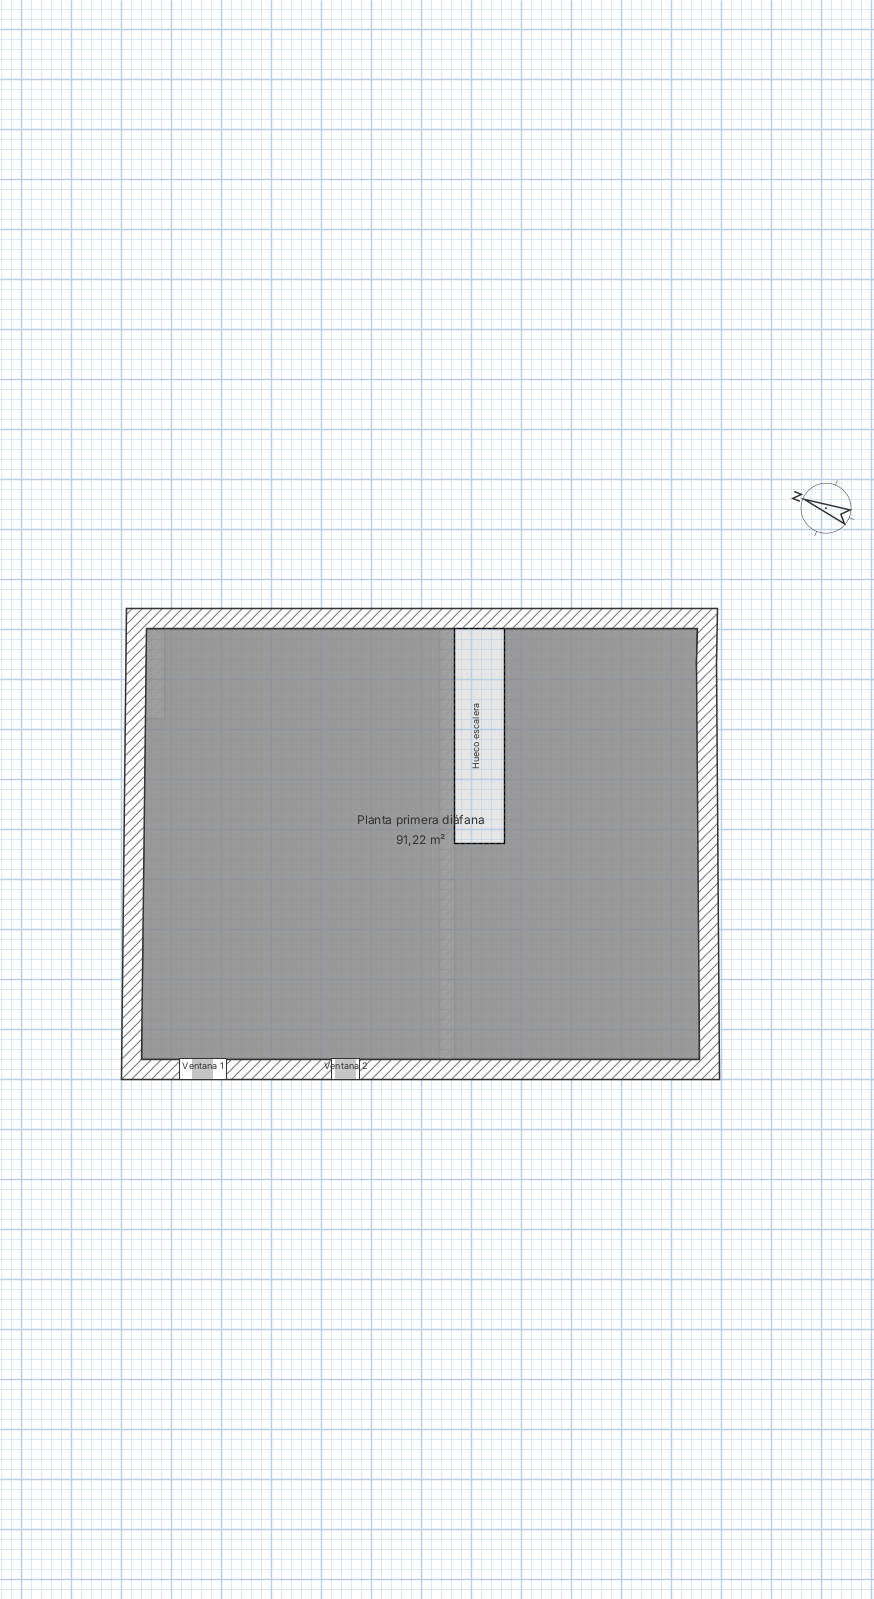
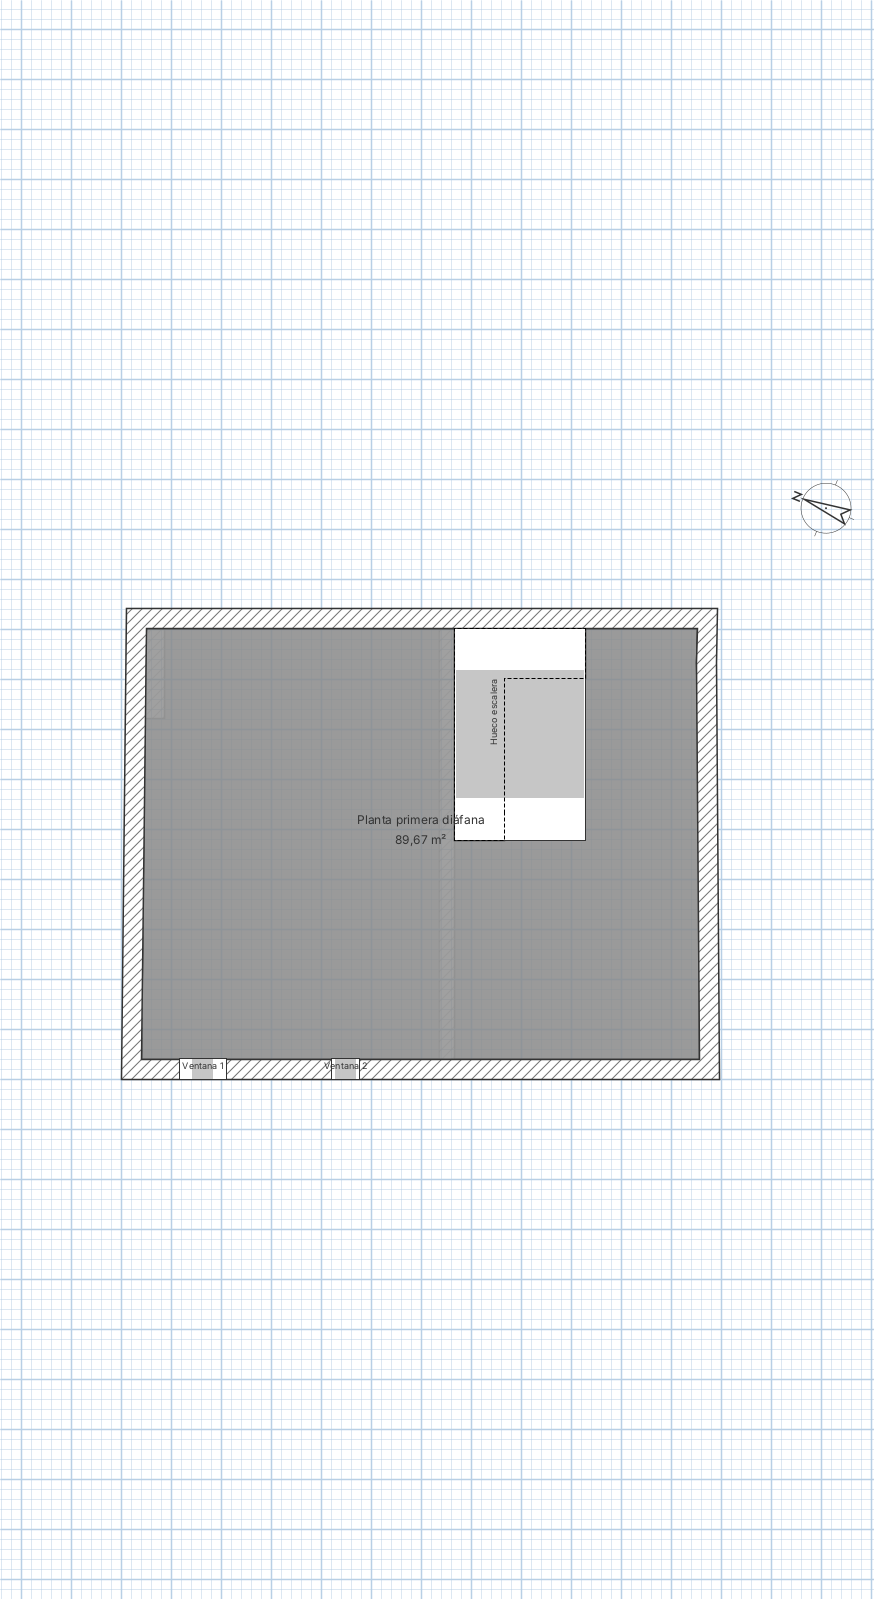
Escalera en L con peldaños 3D y hueco en el forjado
- La escalera es ahora una pieza 3D (OBJ generado) con 20 peldaños,
  meseta en la esquina del fondo y segundo tramo girando a la derecha
- staircaseCutOutShape abre el hueco en el primer piso
- Cámara aérea inicial desde la calle
- tools/Render3D.java: render 3D con el motor de fotos de Sweet Home 3D

Claude-Session: https://claude.ai/code/session_01BqJQ7yCwWW4P55yjYQnWAv

Changed region(s): [[0.4943, 0.3677, 0.6796, 0.5516]]

diff --git a/tools/generar_sh3d.py b/tools/generar_sh3d.py
@@ -123,6 +123,62 @@ f 4 1 5 8
 """
 
 
+def escalera_en_l(e, variables, subida):
+    """Calcula los peldaños de una escalera en L.
+
+    Primer tramo recto hacia el fondo pegado a x, meseta en la esquina del
+    fondo y segundo tramo girando a derecha o izquierda a lo largo del muro
+    del fondo. Devuelve (huella en planta, lista de bloques
+    (x0, y0, x1, y1, cota superior) en metros, recorrido para la flecha).
+    """
+    x = evalua(e["x"], variables)
+    fin = evalua(e["fin"], variables)
+    ancho = evalua(e["ancho"], variables)
+    huella = evalua(e.get("huella", 0.27), variables)
+    n1 = int(e["peldanos_tramo1"])
+    total = round(subida / 0.175)
+    tabica = subida / total
+    signo = 1 if e.get("giro", "derecha") == "derecha" else -1
+    inicio = fin - ancho - (n1 - 1) * huella
+    bloques = []
+    for k in range(1, n1):
+        bloques.append((x, inicio + (k - 1) * huella, x + ancho, inicio + k * huella, k * tabica))
+    bloques.append((x, fin - ancho, x + ancho, fin, n1 * tabica))  # meseta
+    borde = x + ancho if signo > 0 else x
+    for j in range(1, total - n1):
+        a, b = borde + signo * (j - 1) * huella, borde + signo * j * huella
+        bloques.append((min(a, b), fin - ancho, max(a, b), fin, (n1 + j) * tabica))
+    huella_planta = unary_union([box(*b[:4]) for b in bloques])
+    llegada = borde + signo * (total - n1 - 1) * huella
+    recorrido = [(x + ancho / 2, inicio + 0.1), (x + ancho / 2, fin - ancho / 2),
+                 (llegada - signo * 0.1, fin - ancho / 2)]
+    return huella_planta, bloques, recorrido, total, tabica
+
+
+def obj_bloques(bloques, subida):
+    """Modelo OBJ (en cm) con un bloque macizo por peldaño.
+
+    Ejes OBJ de Sweet Home 3D: X = X del plano, Y = altura, Z = Y del plano.
+    Se añade un canto fino a la cota de llegada para que la pieza alcance el
+    forjado superior y Sweet Home 3D recorte el hueco.
+    """
+    lineas = ["# Escalera generada por tools/generar_sh3d.py"]
+    cajas = [(b[0], b[1], b[2], b[3], 0.0, b[4]) for b in bloques]
+    ultimo = bloques[-1]
+    cajas.append((ultimo[0], ultimo[1], ultimo[2], ultimo[3], subida - 0.02, subida + 0.01))
+    for n, (x0, y0, x1, y1, z0, z1) in enumerate(cajas):
+        X0, X1 = x0 * 100, x1 * 100
+        Z0, Z1 = -y1 * 100, -y0 * 100
+        H0, H1 = z0 * 100, z1 * 100
+        for vx, vy, vz in [(X0, H0, Z0), (X1, H0, Z0), (X1, H1, Z0), (X0, H1, Z0),
+                           (X0, H0, Z1), (X1, H0, Z1), (X1, H1, Z1), (X0, H1, Z1)]:
+            lineas.append(f"v {vx:.2f} {vy:.2f} {vz:.2f}")
+        o = n * 8
+        for cara in ((1, 4, 3, 2), (5, 6, 7, 8), (1, 2, 6, 5), (4, 8, 7, 3), (2, 3, 7, 6), (1, 5, 8, 4)):
+            lineas.append("f " + " ".join(str(o + c) for c in cara))
+    return "\n".join(lineas) + "\n"
+
+
 def png_gris(lado=16):
     fila = b"\x00" + b"\x90" * lado
     datos = zlib.compress(fila * lado)
@@ -192,6 +248,7 @@ def generar(ruta_yaml):
 
     h = Home()
     resumen = []
+    modelos = {}
 
     # Brújula: ángulo del norte respecto a "arriba" del plano, en sentido horario.
     norte_x, norte_y = ux[1], uy[1]  # componentes del norte UTM en ejes locales
@@ -204,6 +261,12 @@ def generar(ruta_yaml):
         "longitude": f"{math.radians(centro['lon']):.6f}",
         "latitude": f"{math.radians(centro['lat']):.6f}",
         "timeZone": "Europe/Madrid", "visible": "true"})
+
+    # Vista 3D aérea inicial: desde la calle, elevada, mirando hacia el fondo
+    h.elemento("camera", {
+        "attribute": "topCamera", "lens": "PINHOLE",
+        "x": X(ancho_fachada / 2), "y": Y(-14), "z": "1400",
+        "yaw": f"{math.pi:.4f}", "pitch": f"{math.pi / 5:.4f}", "fieldOfView": "1.0472"})
 
     # Niveles
     elevacion = 0.0
@@ -283,10 +346,23 @@ def generar(ruta_yaml):
         # Escalera de esta planta y hueco de la escalera de la planta inferior
         escalera = None
         if planta.get("escalera"):
-            e = planta["escalera"]
-            ex, ey = evalua(e["x"], variables), evalua(e["y"], variables)
-            ea, el = evalua(e["ancho"], variables), evalua(e["largo"], variables)
-            escalera = box(ex, ey, ex + ea, ey + el)
+            siguiente = conf["plantas"][i + 1]
+            subida = altura + float(siguiente["forjado"])
+            escalera, bloques, recorrido, n_tabicas, tabica = escalera_en_l(
+                planta["escalera"], variables, subida)
+            modelos[f"escalera_{nivel}.obj"] = obj_bloques(bloques, subida)
+            minx, miny, maxx, maxy = escalera.bounds
+            # Hueco en el forjado: contorno de la escalera normalizado a la pieza
+            # (0,0 = esquina trasera izquierda del plano).
+            camino = " ".join(
+                ("M" if k == 0 else "L") + f" {(px - minx) / (maxx - minx):.4f} {(maxy - py) / (maxy - miny):.4f}"
+                for k, (px, py) in enumerate(anillo(escalera))) + " Z"
+            h.elemento("pieceOfFurniture", {
+                "id": h.nuevo_id("escalera"), "level": nivel, "name": "Escalera",
+                "icon": "icono.png", "model": f"escalera_{nivel}.obj",
+                "x": X((minx + maxx) / 2), "y": Y((miny + maxy) / 2), "elevation": "0",
+                "width": cm(maxx - minx), "depth": cm(maxy - miny), "height": cm(subida + 0.01),
+                "color": "FFB0A898", "movable": "false", "staircaseCutOutShape": camino})
         descontar = unary_union([g for g in (escalera, escalera_anterior, *obstaculos) if g is not None])
 
         for est in planta.get("estancias") or []:
@@ -307,15 +383,13 @@ def generar(ruta_yaml):
                 "id": h.nuevo_id("escalera"), "level": nivel, "name": "Escalera",
                 "areaVisible": "false", "floorColor": COLOR_SUELO_ESCALERA},
                 puntos(anillo(escalera)))
-            cx = escalera.centroid.x
-            minx, miny, maxx, maxy = escalera.bounds
             h.elemento("polyline", {
                 "id": h.nuevo_id("subida"), "level": nivel, "thickness": "3",
                 "capStyle": "BUTT", "joinStyle": "MITER", "dashStyle": "SOLID",
                 "startArrowStyle": "NONE", "endArrowStyle": "DELTA",
                 "closedPath": "false", "color": "FF000000"},
-                puntos([(cx, miny + 0.2), (cx, maxy - 0.2)]))
-            resumen.append(f"| Escalera (sube hacia el fondo) | {escalera.area:.1f} |")
+                puntos(recorrido))
+            resumen.append(f"| Escalera en L ({n_tabicas} peldaños de {tabica * 100:.1f} cm) | {escalera.area:.1f} |")
         if escalera_anterior is not None:
             h.elemento("polyline", {
                 "id": h.nuevo_id("hueco-escalera"), "level": nivel, "thickness": "2",
@@ -365,7 +439,7 @@ def generar(ruta_yaml):
            f"<home version='6400' name={quoteattr(Path(conf['salida']).name)} "
            f"selectedLevel={quoteattr(conf['plantas'][0]['id'])} wallHeight='300'>"]
     # Los niveles tienen que ir antes que los elementos que los referencian
-    orden = ["<compass", "<level", "<doorOrWindow", "<wall", "<room", "<polyline", "<dimensionLine", "<label"]
+    orden = ["<camera", "<compass", "<level", "<pieceOfFurniture", "<doorOrWindow", "<wall", "<room", "<polyline", "<dimensionLine", "<label"]
     bloques = []
     actual = None
     for linea in h.lineas:
@@ -384,6 +458,8 @@ def generar(ruta_yaml):
     with zipfile.ZipFile(salida, "w", zipfile.ZIP_DEFLATED) as z:
         z.writestr("Home.xml", "\n".join(xml) + "\n")
         z.writestr("caja.obj", OBJ_CAJA)
+        for nombre, contenido in modelos.items():
+            z.writestr(nombre, contenido)
         z.writestr("icono.png", png_gris())
 
     cabecera = [

diff --git a/tools/Render3D.java b/tools/Render3D.java
@@ -1,0 +1,43 @@
+import com.eteks.sweethome3d.io.HomeFileRecorder;
+import com.eteks.sweethome3d.j3d.PhotoRenderer;
+import com.eteks.sweethome3d.model.*;
+
+import java.awt.image.BufferedImage;
+import java.io.File;
+import javax.imageio.ImageIO;
+
+/**
+ * Renderiza una vista 3D del .sh3d con el motor de fotos de Sweet Home 3D
+ * (SunFlow), sin necesidad de pantalla ni OpenGL.
+ *
+ * Uso (con la carpeta lib/ de la versión de Sweet Home 3D para Linux o la portable):
+ *   java -cp "lib/*" tools/Render3D.java salida/casa_purisima.sh3d salida/vista_3d.png [x y z yaw pitch [nivel]]
+ * Sin cámara explícita usa la vista aérea guardada en el archivo. Si se indica
+ * un nivel, se ocultan los que están por encima (para ver el interior).
+ * Java 3D necesita una pantalla: en un servidor, lanzar con xvfb-run.
+ */
+public class Render3D {
+  public static void main(String[] args) throws Exception {
+    Home home = new HomeFileRecorder(0, false, null, false, true).readHome(args[0]);
+    Camera camara = home.getTopCamera().clone();
+    if (args.length >= 7) {
+      camara.setX(Float.parseFloat(args[2]));
+      camara.setY(Float.parseFloat(args[3]));
+      camara.setZ(Float.parseFloat(args[4]));
+      camara.setYaw(Float.parseFloat(args[5]));
+      camara.setPitch(Float.parseFloat(args[6]));
+    }
+    if (args.length >= 8) {
+      boolean ocultar = false;
+      for (Level nivel : home.getLevels()) {
+        nivel.setViewable(!ocultar);
+        ocultar |= nivel.getName().equals(args[7]);
+      }
+    }
+    BufferedImage imagen = new BufferedImage(1200, 800, BufferedImage.TYPE_INT_RGB);
+    new PhotoRenderer(home, PhotoRenderer.Quality.LOW).render(imagen, camara, null);
+    ImageIO.write(imagen, "png", new File(args[1]));
+    System.out.println("-> " + args[1]);
+    System.exit(0);
+  }
+}

diff --git a/docs/ESTADO.md b/docs/ESTADO.md
@@ -49,20 +49,20 @@ Las superficies de cada estancia están en [`salida/superficies.md`](../salida/s
 
 - Muro central existente de 30 cm en `x = 6,50 m`, que va de la fachada al fondo (posición ajustada por Edu el 24/10).
 - **Zona izquierda (entrada)**: unos 51 m². La puerta al patio está en el muro del fondo de esta zona, cerca del muro central (x = 4,80 m), y es la única puerta exterior trasera. **Chimenea** adosada al muro izquierdo, en la esquina del fondo (unos 0,45 × 1,80 m). Ambas posiciones las marcó Edu el 24/10 y están estimadas sobre el plano.
-- **Cochera** a la derecha: unos 37,7 m² (sin contar la escalera).
-- **Escalera** de 1,00 m de ancho, junto al muro central por el **lado de la cochera**. Va desde la mitad de la casa hasta el muro del fondo y sube hacia el fondo.
+- **Cochera** a la derecha: unos 36,2 m² (sin contar la escalera).
+- **Escalera en L** de 1,00 m de ancho, en el **lado de la cochera** junto al muro central. El primer tramo sube hacia el fondo desde la mitad de la casa (12 peldaños). Le sigue una meseta en la esquina del fondo y un segundo tramo de 6 peldaños que gira a la derecha pegado al muro del fondo. Son 20 peldaños de unos 17 cm con huella de 27 cm. Es un objeto 3D real con sus peldaños y abre automáticamente el hueco en el forjado del primer piso.
 - Fachada: ventanuco, portón izquierdo (2,00 m) y portón de la cochera (2,45 m). Posiciones medidas sobre la foto, aproximadas.
 
 **Primer piso** (altura 3,00 m hasta la cubierta, aprox; forjado de 25 cm):
 
-- Planta diáfana de unos 91 m², sin contar el hueco de la escalera.
+- Planta diáfana de unos 90 m², sin contar el hueco de la escalera.
 - Las dos ventanas pequeñas de la fachada.
 
-Planos renderizados por Sweet Home 3D: [`salida/plano_planta_baja.png`](../salida/plano_planta_baja.png) y [`salida/plano_primer_piso.png`](../salida/plano_primer_piso.png).
+Planos renderizados por Sweet Home 3D: [`salida/plano_planta_baja.png`](../salida/plano_planta_baja.png) y [`salida/plano_primer_piso.png`](../salida/plano_primer_piso.png). Vistas 3D: [`salida/vista_3d.png`](../salida/vista_3d.png) (exterior) y [`salida/vista_3d_planta_baja.png`](../salida/vista_3d_planta_baja.png) (planta baja sin el primer piso, para ver la escalera).
 
 ### Validación
 
-El `.sh3d` generado se ha abierto con el motor de **Sweet Home 3D 7.5** (`tools/ValidarSH3D.java`). Carga sin errores los dos niveles, 11 muros, 6 huecos, las estancias con sus m² y la brújula orientada al norte real. Los PNG de `salida/` son el plano tal y como lo dibuja Sweet Home 3D. No se ha probado la vista 3D en la aplicación de escritorio.
+El `.sh3d` generado se ha abierto con el motor de **Sweet Home 3D 7.5** (`tools/ValidarSH3D.java`). Carga sin errores los dos niveles, 11 muros, 6 huecos, las estancias con sus m² y la brújula orientada al norte real. Los PNG de `salida/` son el plano tal y como lo dibuja Sweet Home 3D. Las vistas 3D se han renderizado con el motor de fotos de Sweet Home 3D (`tools/Render3D.java`); no se han probado en la ventana 3D de la aplicación de escritorio. El archivo incluye una cámara aérea inicial mirando la casa desde la calle.
 
 ## Supuestos y dudas abiertas
 
@@ -77,7 +77,7 @@ Cada punto debería confirmarse o corregirse:
 2. **Lado de la fachada.** Se ha supuesto que la fachada a la calle es el lindero **oeste** de la parcela (vértices 10 → 9 del catastro), porque es el lado recto de unos 12 m. Si fuera el este, se cambia `parcela.fachada` a `[1, 14]` o el par que corresponda.
 3. **Alturas** de planta (3,20 y 3,00 m) y grosor de los muros (40 cm): estimadas.
 4. **Posición del muro central** (`x = 6,50 m`): estimada a partir de la foto y ajustada por Edu, sin medir.
-5. **Escalera**: con unos 4,3 m de recorrido para salvar unos 3,45 m de altura sale muy empinada (unos 21–22 cm por peldaño). Seguramente habrá que alargarla, hacerla en L o moverla. Es una de las primeras cosas a decidir al distribuir.
+5. **Escalera**: ahora es en L, con peldaños cómodos de unos 17 cm. El segundo tramo ocupa 1,6 m del fondo de la cochera; se puede cambiar el reparto de peldaños (`peldanos_tramo1`) o el sentido de giro (`giro`) en `casa.yaml`.
 6. **Pilares**: no se conocen. Se añadirán cuando Edu tenga los datos.
 7. **Cubierta**: no está modelada; el primer piso llega hasta 3,00 m.
 

diff --git a/README.md b/README.md
@@ -42,6 +42,14 @@ Comprobación opcional con el propio motor de Sweet Home 3D: carga el archivo y 
 java -Djava.awt.headless=true -cp SweetHome3D.jar tools/ValidarSH3D.java salida/casa_purisima.sh3d salida
 ```
 
+Vista 3D renderizada con el motor de fotos de Sweet Home 3D. Usa la carpeta `lib/` de la versión para Linux o de la portable, y en un servidor sin pantalla se lanza con `xvfb-run`:
+
+```bash
+java -Dj3d.rend=noop -cp "SweetHome3D-7.5/lib/*" tools/Render3D.java salida/casa_purisima.sh3d salida/vista_3d.png
+# planta baja sola, vista desde arriba a la derecha:
+java -Dj3d.rend=noop -cp "SweetHome3D-7.5/lib/*" tools/Render3D.java salida/casa_purisima.sh3d salida/vista_3d_planta_baja.png 1100 400 900 2.4 0.75 "Planta baja"
+```
+
 ## Estructura
 
 | Ruta | Contenido |
@@ -50,6 +58,7 @@ java -Djava.awt.headless=true -cp SweetHome3D.jar tools/ValidarSH3D.java salida/
 | `datos/catastro/` | Datos y geometría de la parcela descargados del catastro |
 | `tools/generar_sh3d.py` | Generador `casa.yaml` → `.sh3d` |
 | `tools/ValidarSH3D.java` | Validador y render del plano con Sweet Home 3D |
+| `tools/Render3D.java` | Render 3D (fotos) con Sweet Home 3D |
 | `salida/` | Archivo `.sh3d` generado, planos en PNG y superficies |
 | `docs/ESTADO.md` | Estado del proyecto, supuestos y próximos pasos |
 | `docs/fotos/` | Fotos de la fachada (Google Street View) |

diff --git a/salida/superficies.md b/salida/superficies.md
@@ -13,8 +13,8 @@ Generado automáticamente por `tools/generar_sh3d.py` a partir de `casa.yaml`. N
 | Estancia | Superficie útil (m²) |
 |---|---|
 | Zona izquierda (entrada) | 50.2 |
-| Cochera | 37.7 |
-| Escalera (sube hacia el fondo) | 4.3 |
+| Cochera | 36.2 |
+| Escalera en L (20 peldaños de 17.2 cm) | 5.9 |
 | **Superficie útil interior total** | **95.5** |
 | Superficie construida (catastro) | 111.9 |
 | Patio / resto de parcela | 139.3 |
@@ -23,6 +23,6 @@ Generado automáticamente por `tools/generar_sh3d.py` a partir de `casa.yaml`. N
 
 | Estancia | Superficie útil (m²) |
 |---|---|
-| Planta primera diáfana | 91.2 |
+| Planta primera diáfana | 89.7 |
 | **Superficie útil interior total** | **95.5** |
 | Superficie construida (catastro) | 111.9 |
